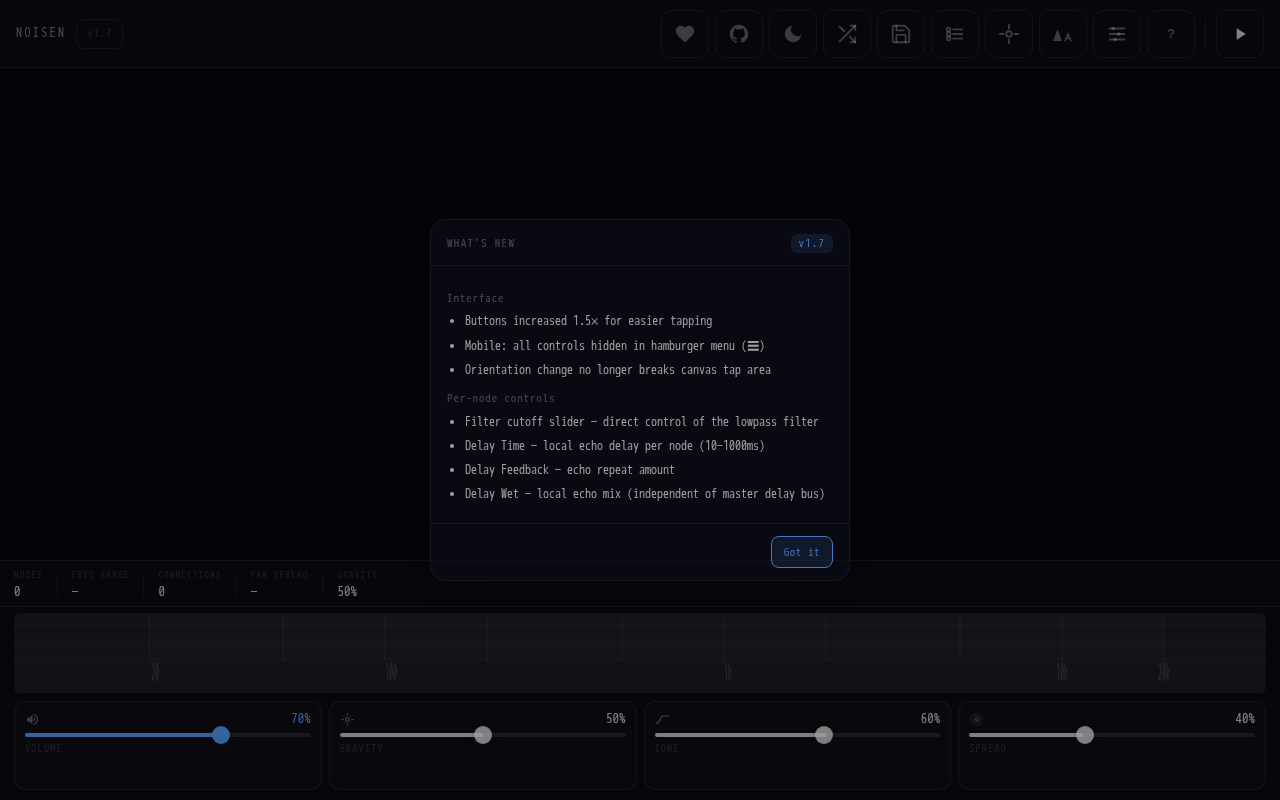
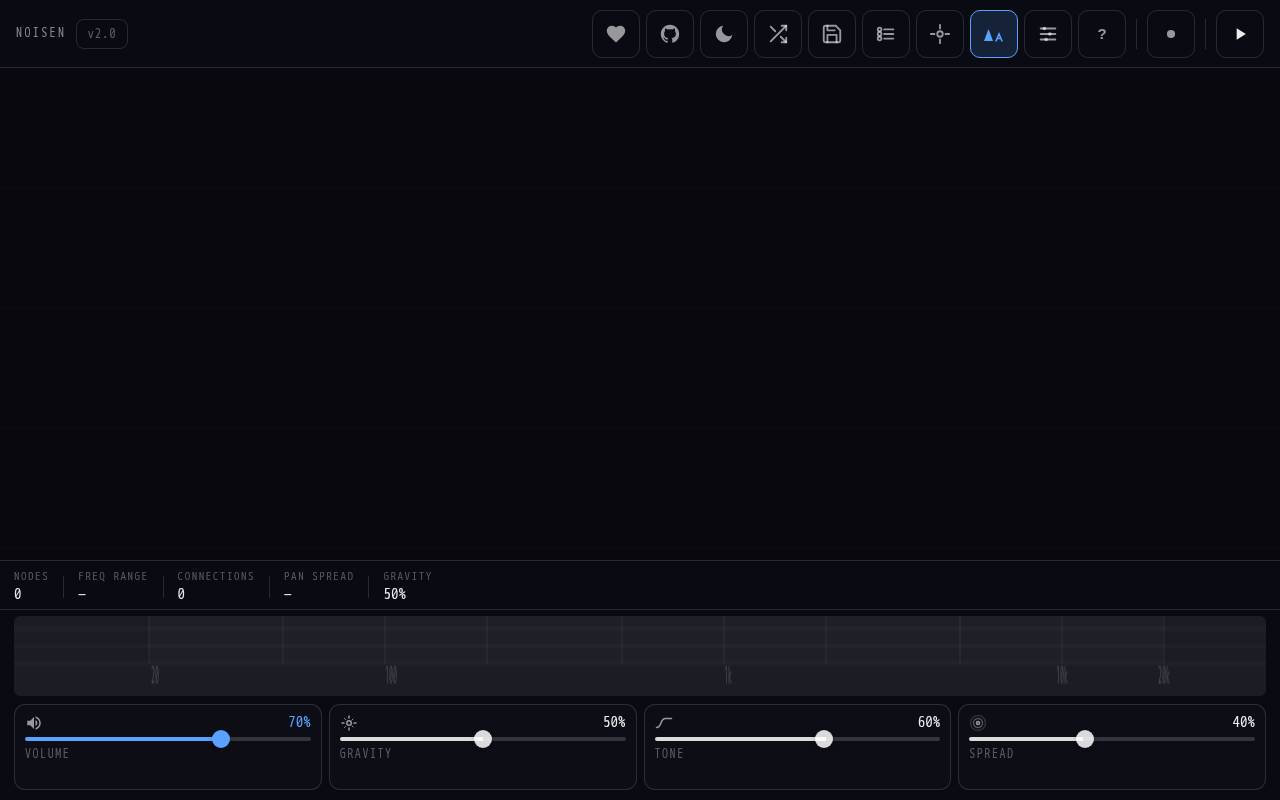
v2.0: orbit LFO modulation, tabbed node panel, contrast improvements
- Add orbit LFO system: up to 3 per node, targets filter/pan/vol/delay
- Split node panel into Sound/Envelope/FX/Orbits tabs
- Draw orbit rings and animated dots on canvas
- Replace wizard save emoji with SVG icon
- Increase text/border contrast in dark and light themes
- Add screenshot capture script and Playwright capture script
- Bump APP_VERSION to 2.0, add WHATSNEW entry

diff --git a/source/javascript/ui.js b/source/javascript/ui.js
@@ -124,6 +124,22 @@ function makeNoiseColorCard(node) {
   return card;
 }
 
+// ── Node tab state ────────────────────────────────────────────
+let activeNodeTab = 'sound';
+
+function switchNodeTab(tab) {
+  activeNodeTab = tab;
+  document.querySelectorAll('.node-tab').forEach(btn => {
+    btn.classList.toggle('active', btn.dataset.tab === tab);
+  });
+  if (state.selectedNode) buildNodeCards(state.selectedNode);
+}
+
+// Wire tab buttons once on load
+document.querySelectorAll('.node-tab').forEach(btn => {
+  btn.addEventListener('click', () => switchNodeTab(btn.dataset.tab));
+});
+
 export function buildNodeCards(node) {
   nodeCards.innerHTML = '';
   const color    = TYPES[node.type].color;
@@ -138,46 +154,49 @@ export function buildNodeCards(node) {
 
   const fmtSec = v => v >= 1 ? `${(+v).toFixed(1)}s` : `${Math.round(v * 1000)}ms`;
 
-  nodeCards.appendChild(mkC('vol','vol','Volume','Node volume','Loudness and visual size',
-    5,100,1,Math.round(node.volume*100),v=>`${v}%`,v=>{ node.volume=v/100; updateAudio(node); }));
-  nodeCards.appendChild(mkC('pan','pan','Pan','Stereo pan','Left/right, overrides X-axis',
-    -100,100,1,Math.round(effectivePan(node)*100),v=>fmtPan(v/100),v=>{ node.panOverride=v/100; updateAudio(node); }));
+  if (activeNodeTab === 'sound') {
+    nodeCards.appendChild(mkC('vol','vol','Volume','Node volume','Loudness and visual size',
+      5,100,1,Math.round(node.volume*100),v=>`${v}%`,v=>{ node.volume=v/100; updateAudio(node); }));
+    nodeCards.appendChild(mkC('pan','pan','Pan','Stereo pan','Left/right, overrides X-axis',
+      -100,100,1,Math.round(effectivePan(node)*100),v=>fmtPan(v/100),v=>{ node.panOverride=v/100; updateAudio(node); }));
+    nodeCards.appendChild(mkC('fcut','fcut','Filter','Filter cutoff','Lowpass cutoff frequency',
+      0,100,1,Math.round((node.filterNorm??0.5)*100),v=>`${Math.round(filterFromNorm(v/100))}Hz`,v=>{ node.filterNorm=v/100; updateAudio(node); }));
+    if (node.type === 'sine' || node.type === 'triangle') {
+      nodeCards.appendChild(mkC('det','det','Detune','Detune','Fine pitch in cents',-1200,1200,1,node.typeParams.detune,v=>`${v}¢`,v=>{ node.typeParams.detune=v; updateAudio(node); }));
+      nodeCards.appendChild(mkC('vib','vib','Vibrato Hz','Vibrato rate','LFO speed',0,20,.1,node.typeParams.vibratoRate,v=>`${(+v).toFixed(1)}Hz`,v=>{ node.typeParams.vibratoRate=v; rebuildAudio(node); }));
+      nodeCards.appendChild(mkC('dep','dep','Vib depth','Vibrato depth','Depth in cents',0,400,1,node.typeParams.vibratoDepth,v=>`${v}¢`,v=>{ node.typeParams.vibratoDepth=v; rebuildAudio(node); }));
+    } else if (node.type === 'square' || node.type === 'sawtooth') {
+      nodeCards.appendChild(mkC('det','det','Detune','Detune','Fine pitch in cents',-1200,1200,1,node.typeParams.detune,v=>`${v}¢`,v=>{ node.typeParams.detune=v; updateAudio(node); }));
+      nodeCards.appendChild(mkC('vcs','vcs','Voices','Voices','Detuned copies',1,5,1,node.typeParams.voices,v=>`×${v}`,v=>{ node.typeParams.voices=v; rebuildAudio(node); }));
+      nodeCards.appendChild(mkC('spr','spr','Spread','Spread','Cents between voices',0,100,1,node.typeParams.spread,v=>`${v}¢`,v=>{ node.typeParams.spread=v; rebuildAudio(node); }));
+    } else if (node.type === 'noise') {
+      nodeCards.appendChild(makeNoiseColorCard(node));
+      nodeCards.appendChild(mkC('res','res','Resonance','Resonance','Filter Q',.5,20,.5,node.typeParams.resonance,v=>`Q${(+v).toFixed(1)}`,v=>{ node.typeParams.resonance=v; updateAudio(node); }));
+    }
 
-  nodeCards.appendChild(mkC('atk','atk','Attack','Envelope attack','Fade-in time',
-    0.01,10,.01,node.attack??0.3,fmtSec,v=>{ node.attack=+v; if(node.audio) node.audio.envelope.attack=+v; }));
-  nodeCards.appendChild(mkC('dcy','dcy','Decay','Envelope decay','Fall to sustain level',
-    0.01,5,.01,node.decay??0.1,fmtSec,v=>{ node.decay=+v; if(node.audio) node.audio.envelope.decay=+v; }));
-  nodeCards.appendChild(mkC('sus','sus','Sustain','Envelope sustain','Held level',
-    0,100,1,node.sustain??100,v=>`${v}%`,v=>{ node.sustain=+v; if(node.audio) node.audio.envelope.sustain=v/100; }));
-  nodeCards.appendChild(mkC('rel','rel','Release','Envelope release','Fade-out time',
-    0.01,10,.01,node.release??0.8,fmtSec,v=>{ node.release=+v; if(node.audio) node.audio.envelope.release=+v; }));
+  } else if (activeNodeTab === 'envelope') {
+    nodeCards.appendChild(mkC('atk','atk','Attack','Envelope attack','Fade-in time',
+      0.01,10,.01,node.attack??0.3,fmtSec,v=>{ node.attack=+v; if(node.audio) node.audio.envelope.attack=+v; }));
+    nodeCards.appendChild(mkC('dcy','dcy','Decay','Envelope decay','Fall to sustain level',
+      0.01,5,.01,node.decay??0.1,fmtSec,v=>{ node.decay=+v; if(node.audio) node.audio.envelope.decay=+v; }));
+    nodeCards.appendChild(mkC('sus','sus','Sustain','Envelope sustain','Held level',
+      0,100,1,node.sustain??100,v=>`${v}%`,v=>{ node.sustain=+v; if(node.audio) node.audio.envelope.sustain=v/100; }));
+    nodeCards.appendChild(mkC('rel','rel','Release','Envelope release','Fade-out time',
+      0.01,10,.01,node.release??0.8,fmtSec,v=>{ node.release=+v; if(node.audio) node.audio.envelope.release=+v; }));
 
-  if (node.type === 'sine' || node.type === 'triangle') {
-    nodeCards.appendChild(mkC('det','det','Detune','Detune','Fine pitch in cents',-1200,1200,1,node.typeParams.detune,v=>`${v}¢`,v=>{ node.typeParams.detune=v; updateAudio(node); }));
-    nodeCards.appendChild(mkC('vib','vib','Vibrato Hz','Vibrato rate','LFO speed',0,20,.1,node.typeParams.vibratoRate,v=>`${(+v).toFixed(1)}Hz`,v=>{ node.typeParams.vibratoRate=v; rebuildAudio(node); }));
-    nodeCards.appendChild(mkC('dep','dep','Vib depth','Vibrato depth','Depth in cents',0,400,1,node.typeParams.vibratoDepth,v=>`${v}¢`,v=>{ node.typeParams.vibratoDepth=v; rebuildAudio(node); }));
-  } else if (node.type === 'square' || node.type === 'sawtooth') {
-    nodeCards.appendChild(mkC('det','det','Detune','Detune','Fine pitch in cents',-1200,1200,1,node.typeParams.detune,v=>`${v}¢`,v=>{ node.typeParams.detune=v; updateAudio(node); }));
-    nodeCards.appendChild(mkC('vcs','vcs','Voices','Voices','Detuned copies',1,5,1,node.typeParams.voices,v=>`×${v}`,v=>{ node.typeParams.voices=v; rebuildAudio(node); }));
-    nodeCards.appendChild(mkC('spr','spr','Spread','Spread','Cents between voices',0,100,1,node.typeParams.spread,v=>`${v}¢`,v=>{ node.typeParams.spread=v; rebuildAudio(node); }));
-  } else if (node.type === 'noise') {
-    nodeCards.appendChild(makeNoiseColorCard(node));
-    nodeCards.appendChild(mkC('res','res','Resonance','Resonance','Filter Q',.5,20,.5,node.typeParams.resonance,v=>`Q${(+v).toFixed(1)}`,v=>{ node.typeParams.resonance=v; updateAudio(node); }));
-  }
+  } else if (activeNodeTab === 'fx') {
+    nodeCards.appendChild(mkC('rsnd','rsnd','Reverb','Reverb send','Amount routed to master reverb bus',
+      0,100,1,Math.round((node.reverbSend??0)*100),v=>`${v}%`,v=>{ node.reverbSend=v/100; if(node.audio) node.audio.reverbSend.gain.rampTo(node.reverbSend,.1); }));
+    nodeCards.appendChild(mkC('dsnd','dsnd','Bus Dly','Delay bus send','Amount routed to master delay bus',
+      0,100,1,Math.round((node.delaySend??0)*100),v=>`${v}%`,v=>{ node.delaySend=v/100; if(node.audio) node.audio.delaySend.gain.rampTo(node.delaySend,.1); }));
+    nodeCards.appendChild(mkC('ndly','ndly','Dly Time','Node delay time','Local echo delay in ms',
+      10,1000,10,node.nodeDelayTime??250,v=>`${v}ms`,v=>{ node.nodeDelayTime=v; if(node.audio) node.audio.nodeDelay.delayTime.rampTo(v/1000,.1); }));
+    nodeCards.appendChild(mkC('nfdb','nfdb','Dly Fbk','Node delay feedback','Echo repeat amount',
+      0,90,1,node.nodeDelayFeedback??0,v=>`${v}%`,v=>{ node.nodeDelayFeedback=v; if(node.audio) node.audio.nodeDelay.feedback.rampTo(v/100,.1); }));
+    nodeCards.appendChild(mkC('nwet','nwet','Dly Wet','Node delay wet','Local echo mix',
+      0,100,1,node.nodeDelayWet??0,v=>`${v}%`,v=>{ node.nodeDelayWet=v; if(node.audio) node.audio.nodeDelay.wet.rampTo(v/100,.1); }));
 
-  nodeCards.appendChild(mkC('fcut','fcut','Filter','Filter cutoff','Lowpass cutoff frequency',
-    0,100,1,Math.round((node.filterNorm??0.5)*100),v=>`${Math.round(filterFromNorm(v/100))}Hz`,v=>{ node.filterNorm=v/100; updateAudio(node); }));
-  nodeCards.appendChild(mkC('rsnd','rsnd','Reverb','Reverb send','Amount routed to master reverb bus',
-    0,100,1,Math.round((node.reverbSend??0)*100),v=>`${v}%`,v=>{ node.reverbSend=v/100; if(node.audio) node.audio.reverbSend.gain.rampTo(node.reverbSend,.1); }));
-  nodeCards.appendChild(mkC('dsnd','dsnd','Bus Dly','Delay bus send','Amount routed to master delay bus',
-    0,100,1,Math.round((node.delaySend??0)*100),v=>`${v}%`,v=>{ node.delaySend=v/100; if(node.audio) node.audio.delaySend.gain.rampTo(node.delaySend,.1); }));
-  nodeCards.appendChild(mkC('ndly','ndly','Dly Time','Node delay time','Local echo delay in ms',
-    10,1000,10,node.nodeDelayTime??250,v=>`${v}ms`,v=>{ node.nodeDelayTime=v; if(node.audio) node.audio.nodeDelay.delayTime.rampTo(v/1000,.1); }));
-  nodeCards.appendChild(mkC('nfdb','nfdb','Dly Fbk','Node delay feedback','Echo repeat amount',
-    0,90,1,node.nodeDelayFeedback??0,v=>`${v}%`,v=>{ node.nodeDelayFeedback=v; if(node.audio) node.audio.nodeDelay.feedback.rampTo(v/100,.1); }));
-  nodeCards.appendChild(mkC('nwet','nwet','Dly Wet','Node delay wet','Local echo mix',
-    0,100,1,node.nodeDelayWet??0,v=>`${v}%`,v=>{ node.nodeDelayWet=v; if(node.audio) node.audio.nodeDelay.wet.rampTo(v/100,.1); }));
-
+  } else if (activeNodeTab === 'orbits') {
   // ── Orbit section ─────────────────────────────────────────
   const orbitSection = document.createElement('div');
   orbitSection.className = 'orbit-section';
@@ -270,6 +289,7 @@ export function buildNodeCards(node) {
 
   renderOrbitCards();
   nodeCards.appendChild(orbitSection);
+  } // end activeNodeTab === 'orbits'
 
   nodeCards.querySelectorAll('.param-card').forEach(c => {
     c.style.setProperty('--card-accent',     color);
@@ -395,11 +415,17 @@ export function hideTooltip() {
 
 // ── What's new overlay ────────────────────────────────────────
 const WHATSNEW = {
+  '2.0': {
+    title: 'Orbits + tabbed node panel',
+    items: [
+      { section: 'Orbit modulation', changes: ['Each node supports up to 3 independent LFO orbits', 'Targets: Filter cutoff, Pan, Volume, Delay wet', 'Rate 0.02–2 Hz · Depth 0–100%', 'Visualised as dashed rings with a moving dot on the canvas'] },
+      { section: 'Node panel', changes: ['Parameters split into 4 tabs: Sound · Envelope · FX · Orbits', 'No more endless horizontal scrolling — each tab shows only what matters'] },
+    ],
+  },
   '1.9': {
     title: 'UI polish + modular codebase',
     items: [
       { section: 'Typography', changes: ['All text now scales with the large/small text toggle — modals, overlays, wizard, presets, node panel'] },
-      { section: 'Mobile panel', changes: ['Node parameter cards can be collapsed with a chevron button — panel shrinks to header + info strip'] },
       { section: 'Under the hood', changes: ['Codebase split into ES modules: store, audio, canvas, ui, main', 'Vite build pipeline — source/ → dist/ via Docker'] },
     ],
   },

diff --git a/source/styles/main.css b/source/styles/main.css
@@ -242,6 +242,23 @@ canvas#main { position:fixed; inset:0; cursor:crosshair; touch-action:none; }
 .ni-value { font-size:var(--stat-val-fs,13px); color:var(--text); font-variant-numeric:tabular-nums; }
 
 /* node cards row */
+/* ── Node tabs ────────────────────────────────────────────────── */
+#node-tabs {
+  display:flex; gap:0; flex-shrink:0;
+  border-bottom:1px solid var(--border);
+  padding:0 12px;
+}
+.node-tab {
+  padding:6px 14px; border:none; background:none;
+  font-size:var(--fs-xs); font-family:inherit;
+  color:var(--text-dim); cursor:pointer;
+  border-bottom:2px solid transparent; margin-bottom:-1px;
+  letter-spacing:.06em; text-transform:uppercase;
+  transition:color .12s, border-color .12s;
+}
+.node-tab:hover { color:var(--text); }
+.node-tab.active { color:var(--text); border-bottom-color:var(--accent); }
+
 #node-cards {
   display:flex; gap:7px; padding:8px 14px 10px;
   overflow-x:auto; flex:1; align-items:stretch;
@@ -637,13 +654,11 @@ canvas#main { position:fixed; inset:0; cursor:crosshair; touch-action:none; }
   #node-info-strip .an-sep:nth-child(6),
   #node-info-strip .an-sep:nth-child(6) + .ni-item { display: none; }
 
-  /* node-cards collapse toggle */
-  #node-cards-toggle { display: flex; }
+  /* node tabs: smaller padding on mobile */
+  .node-tab { padding: 5px 10px; font-size: var(--fs-xs); }
 
-  /* node cards: compact */
+  /* node cards: compact, 2-col wrap instead of horizontal scroll */
   #node-cards { padding: 7px 10px 8px; gap: 5px; }
-
-  /* collapsed panel height handled by JS via updatePanelH() */
 
   /* param card: adjust */
   .param-card { min-width: 68px; padding: 7px 8px 6px; }
@@ -685,21 +700,6 @@ canvas#main { position:fixed; inset:0; cursor:crosshair; touch-action:none; }
   .card-slider::-webkit-slider-thumb { width: 22px; height: 22px; }
   .card-slider::-moz-range-thumb    { width: 22px; height: 22px; }
 }
-
-/* ── node-cards collapse toggle (mobile only) ─────────────── */
-#node-cards-toggle {
-  display:none;
-  width:100%; padding:4px 0; border:none; background:transparent;
-  color:var(--text-faint); cursor:pointer; flex-shrink:0;
-  align-items:center; justify-content:center;
-  border-top:1px solid var(--border);
-  transition:color .14s;
-}
-#node-cards-toggle:hover { color:var(--text); }
-#node-cards-toggle svg { width:18px; height:18px; transition:transform .2s; }
-#node-cards-toggle.collapsed svg { transform:rotate(180deg); }
-#node-view.cards-collapsed #node-cards { display:none; }
-#node-view.cards-collapsed { --panel-cards-h: 0px; }
 
 /* noise color buttons inside card */
 .nc-group { display:flex; gap:3px; flex:1; align-items:center; margin:2px 0; }

diff --git a/source/index.html b/source/index.html
@@ -298,9 +298,12 @@
         </div>
       </div>
 
-      <button id="node-cards-toggle" aria-label="Toggle parameters">
-        <svg viewBox="0 0 24 24" fill="none" stroke="currentColor" stroke-width="2.5" stroke-linecap="round" stroke-linejoin="round"><polyline points="6 9 12 15 18 9"/></svg>
-      </button>
+      <div id="node-tabs">
+        <button class="node-tab active" data-tab="sound">Sound</button>
+        <button class="node-tab" data-tab="envelope">Envelope</button>
+        <button class="node-tab" data-tab="fx">FX</button>
+        <button class="node-tab" data-tab="orbits">Orbits</button>
+      </div>
       <div id="node-cards"></div>
     </div>
 

diff --git a/source/javascript/main.js b/source/javascript/main.js
@@ -276,15 +276,6 @@ mirrorBtn('fx-btn-m',             'fx-btn');
 mirrorBtn('version-btn-m',        null, () => showWhatsNew(APP_VERSION));
 mirrorBtn('help-btn-m',           'help-btn');
 
-// node-cards collapse toggle (mobile)
-const nodeCardsToggle = document.getElementById('node-cards-toggle');
-const nodeViewEl      = document.getElementById('node-view');
-nodeCardsToggle.addEventListener('click', () => {
-  const collapsed = nodeViewEl.classList.toggle('cards-collapsed');
-  nodeCardsToggle.classList.toggle('collapsed', collapsed);
-  updatePanelH();
-});
-
 // ── Tooltip ───────────────────────────────────────────────────
 document.addEventListener('pointerover',  e => { const el = e.target.closest('[data-tip]'); if (el) showTooltip(el); else hideTooltip(); });
 document.addEventListener('pointerleave', hideTooltip);

diff --git a/source/javascript/store.js b/source/javascript/store.js
@@ -1,6 +1,6 @@
 // ── Shared reactive state ─────────────────────────────────────
 
-export const APP_VERSION = '1.9';
+export const APP_VERSION = '2.0';
 
 export const TYPES = {
   sine:     { color:'#3a7bd5', rgb:[58,123,213]   },

diff --git a/infrastructure/tests/capture-screenshots.py b/infrastructure/tests/capture-screenshots.py
@@ -1,0 +1,96 @@
+"""
+Capture UX screenshots: desktop and mobile, global panel and node panel with orbits.
+Output goes to infrastructure/screenshots/.
+"""
+import subprocess, sys, time, os
+from playwright.sync_api import sync_playwright
+
+BASE    = 'http://localhost:8282/index.html'
+OUT_DIR = '/screenshots'
+
+def dismiss(page):
+    page.evaluate("localStorage.setItem('noisen-wizard-done','1')")
+    page.evaluate("localStorage.setItem('noisen-settings', JSON.stringify({lastSeenVersion:'9.9'}))")
+    page.reload(wait_until='domcontentloaded')
+    time.sleep(0.8)
+    # close any overlays that may have appeared
+    for selector in ['#whatsnew-overlay', '#wizard']:
+        try:
+            el = page.locator(selector)
+            if el.count() > 0:
+                page.evaluate(f"document.getElementById('{selector[1:]}').style.display='none'")
+        except Exception:
+            pass
+    time.sleep(0.2)
+
+def add_node_with_orbit(page):
+    canvas = page.locator('#main')
+    box = canvas.bounding_box()
+    mid_x = box['width'] / 2
+    mid_y = box['height'] / 2 - 60
+    # Click canvas to create a node
+    page.mouse.click(box['x'] + mid_x, box['y'] + mid_y)
+    time.sleep(0.4)
+    # Click again to open node panel
+    page.mouse.click(box['x'] + mid_x, box['y'] + mid_y)
+    time.sleep(0.5)
+    # Add an orbit via the + Add button
+    add_btn = page.locator('.orbit-add-btn')
+    if add_btn.count() > 0:
+        add_btn.first.click()
+        time.sleep(0.3)
+
+def run():
+    server = subprocess.Popen(
+        ['python', '-m', 'http.server', '8282'],
+        stdout=subprocess.DEVNULL, stderr=subprocess.DEVNULL
+    )
+    time.sleep(1)
+
+    try:
+        with sync_playwright() as p:
+            browser = p.chromium.launch(args=['--no-sandbox'])
+
+            # ── Desktop: global view ───────────────────────────────────
+            ctx = browser.new_context(viewport={'width': 1280, 'height': 800})
+            page = ctx.new_page()
+            page.goto(BASE, wait_until='domcontentloaded')
+            time.sleep(0.5)
+            dismiss(page)
+            page.screenshot(path=f'{OUT_DIR}/desktop.png')
+            print('✓ desktop.png')
+
+            # ── Desktop: node panel ────────────────────────────────────
+            add_node_with_orbit(page)
+            page.screenshot(path=f'{OUT_DIR}/desktop-node-panel.png')
+            print('✓ desktop-node-panel.png')
+            ctx.close()
+
+            # ── Mobile: global view ────────────────────────────────────
+            ctx2 = browser.new_context(
+                viewport={'width': 390, 'height': 844},
+                has_touch=True,
+                user_agent='Mozilla/5.0 (iPhone; CPU iPhone OS 17_0 like Mac OS X) AppleWebKit/605.1.15'
+            )
+            page2 = ctx2.new_page()
+            page2.goto(BASE, wait_until='domcontentloaded')
+            time.sleep(0.5)
+            dismiss(page2)
+            page2.screenshot(path=f'{OUT_DIR}/mobile.png')
+            print('✓ mobile.png')
+
+            # ── Mobile: node panel ─────────────────────────────────────
+            add_node_with_orbit(page2)
+            page2.screenshot(path=f'{OUT_DIR}/mobile-node-panel.png')
+            print('✓ mobile-node-panel.png')
+            ctx2.close()
+
+            browser.close()
+
+    finally:
+        server.terminate()
+
+    print('\nAll screenshots saved.')
+
+if __name__ == '__main__':
+    run()

diff --git a/CHANGELOG.md b/CHANGELOG.md
@@ -2,6 +2,21 @@
 
 ## [Unreleased] — concept phase
 
+### 2026-06-10 — Concept iteration 23 (v2.0)
+
+#### Orbit modulation (LFO per node)
+- Each node supports up to 3 independent orbits — each is a `Tone.LFO` modulating one parameter
+- Targets: Filter cutoff, Pan, Volume, Delay wet
+- Rate 0.02–2 Hz, Depth 0–100%; orbits start/stop with playback
+- Visualised on canvas as dashed rings + moving dot + depth arc
+
+#### Node panel — tabbed layout
+- Parameters split into 4 tabs: Sound · Envelope · FX · Orbits
+- Replaces horizontal scroll card row — each tab shows only relevant controls
+- Tabs are consistent across desktop and mobile; no more endless scrolling
+
+---
+
 ### 2026-06-10 — Concept iteration 22
 
 #### Project restructure — Vite build pipeline